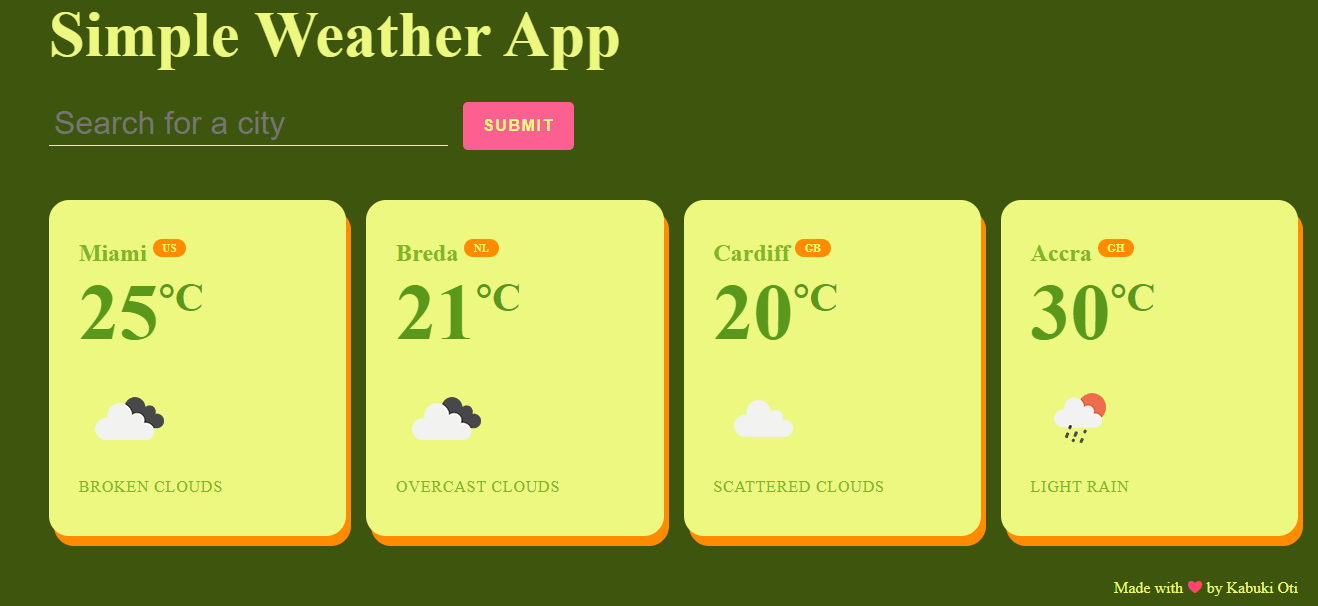
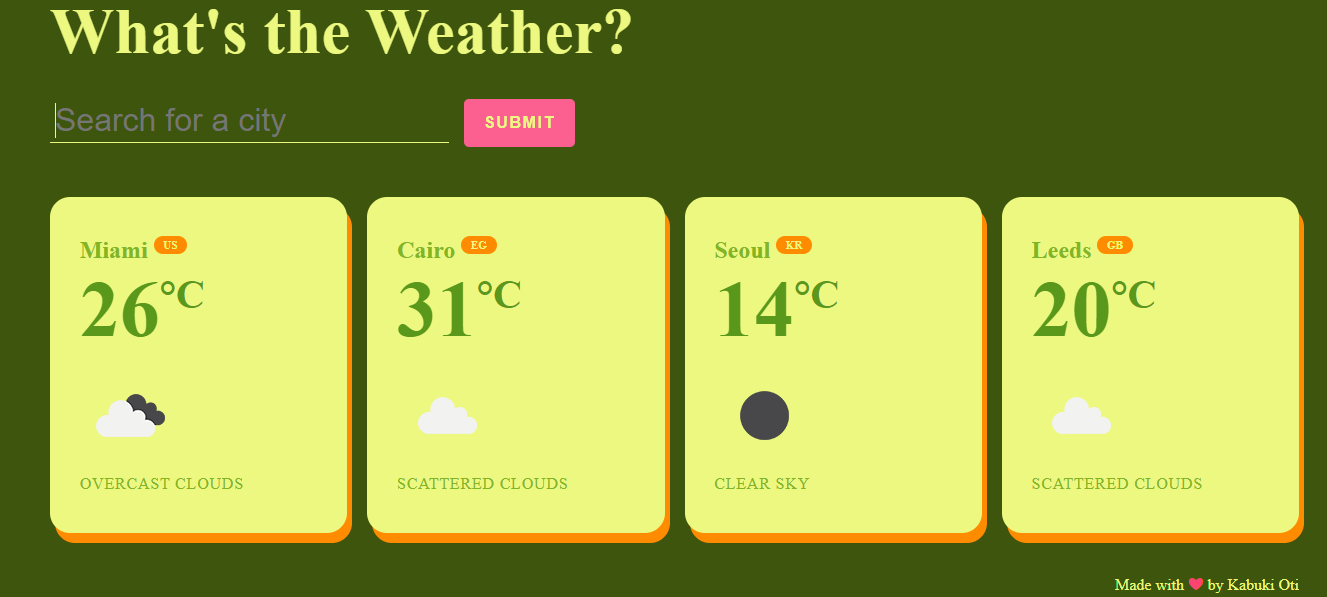
update to title and readme

diff --git a/index.html b/index.html
@@ -14,7 +14,7 @@
     <!-- section 1 -->
     <section class="top-banner">
         <div class="container">
-            <h1 class="heading">Simple Weather App</h1>
+            <h1 class="heading">What's the Weather?</h1>
             <form>
                 <input type="text" placeholder="Search for a city" autofocus>
                 <button type="submit">SUBMIT</button>
